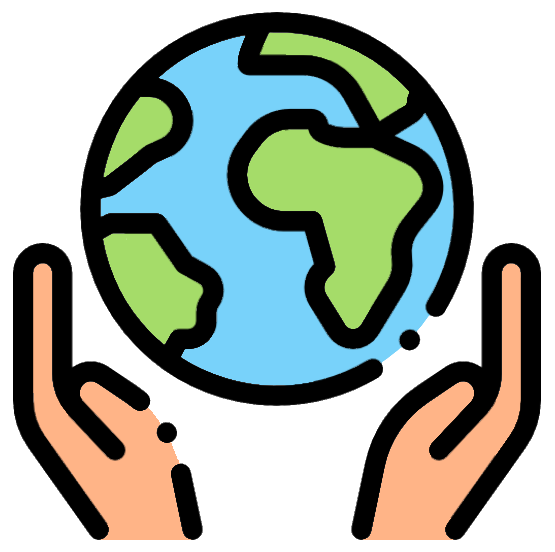
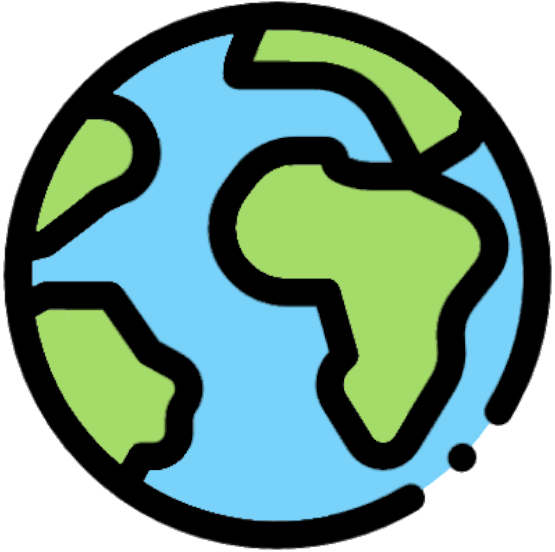
Minor updates

diff --git a/index.html b/index.html
@@ -395,7 +395,7 @@
 
 			<p class="texto_sobremi"
 				data-es="Actualmente estoy cursando un Grado Superior en Desarrollo de Aplicaciones Multiplataforma, trasladando esa misma mentalidad enfocada en la calidad, el análisis y la validación al mundo del software."
-				data-en="I am currently studying a Software Development Advanced Vocational Training Course, bringing the same quality-focused and validation-driven mindset to software development.">
+				data-en="Currently studying a Software Development Advanced Vocational Training Course, bringing the same quality-focused and validation-driven mindset to software development.">
 				Actualmente estoy cursando un Grado Superior en Desarrollo de Aplicaciones Multiplataforma, trasladando esa misma mentalidad enfocada en la calidad, el análisis y la validación al mundo del software, especialmente al ámbito del QA y las pruebas de software.
 			</p>
 		</div>
@@ -713,6 +713,7 @@
 
       <div class="footer-tagline-container">
         <a class="footer-tagline" href="https://davidmarpalez.com"> D M P</a>
+		<a class="footer-hide" data-es="Desarrollemos algo interesante" data-en="Let's develop something interesting">Desarrollemos algo interesante</a>
       </div>
 
 

diff --git a/styles.css b/styles.css
@@ -1415,6 +1415,7 @@ footer {
 
 .footer-tagline-container {
 	display: flex;
+	flex-direction: column;
 	justify-content: center;
 	align-items: center;
 }
@@ -1426,13 +1427,25 @@ footer {
 	opacity: 0.1;
 }
 
+.footer-hide {
+	color: var(--brand2);
+	font-size: 0.9rem;
+	transition: all 1s ease;
+}
+
+.footer-tagline-container:hover {
+	.footer-hide {
+		color: var(--haze);
+	}
+}
+
 
 
 .footer-links { 
 	display: flex; 
 	flex-direction: column; 
-	gap: 0.5rem; font-size: 
-	0.875rem; 
+	gap: 0.5rem;
+	font-size: 0.9rem; 
 }
 
 .footer-links a:hover { 
